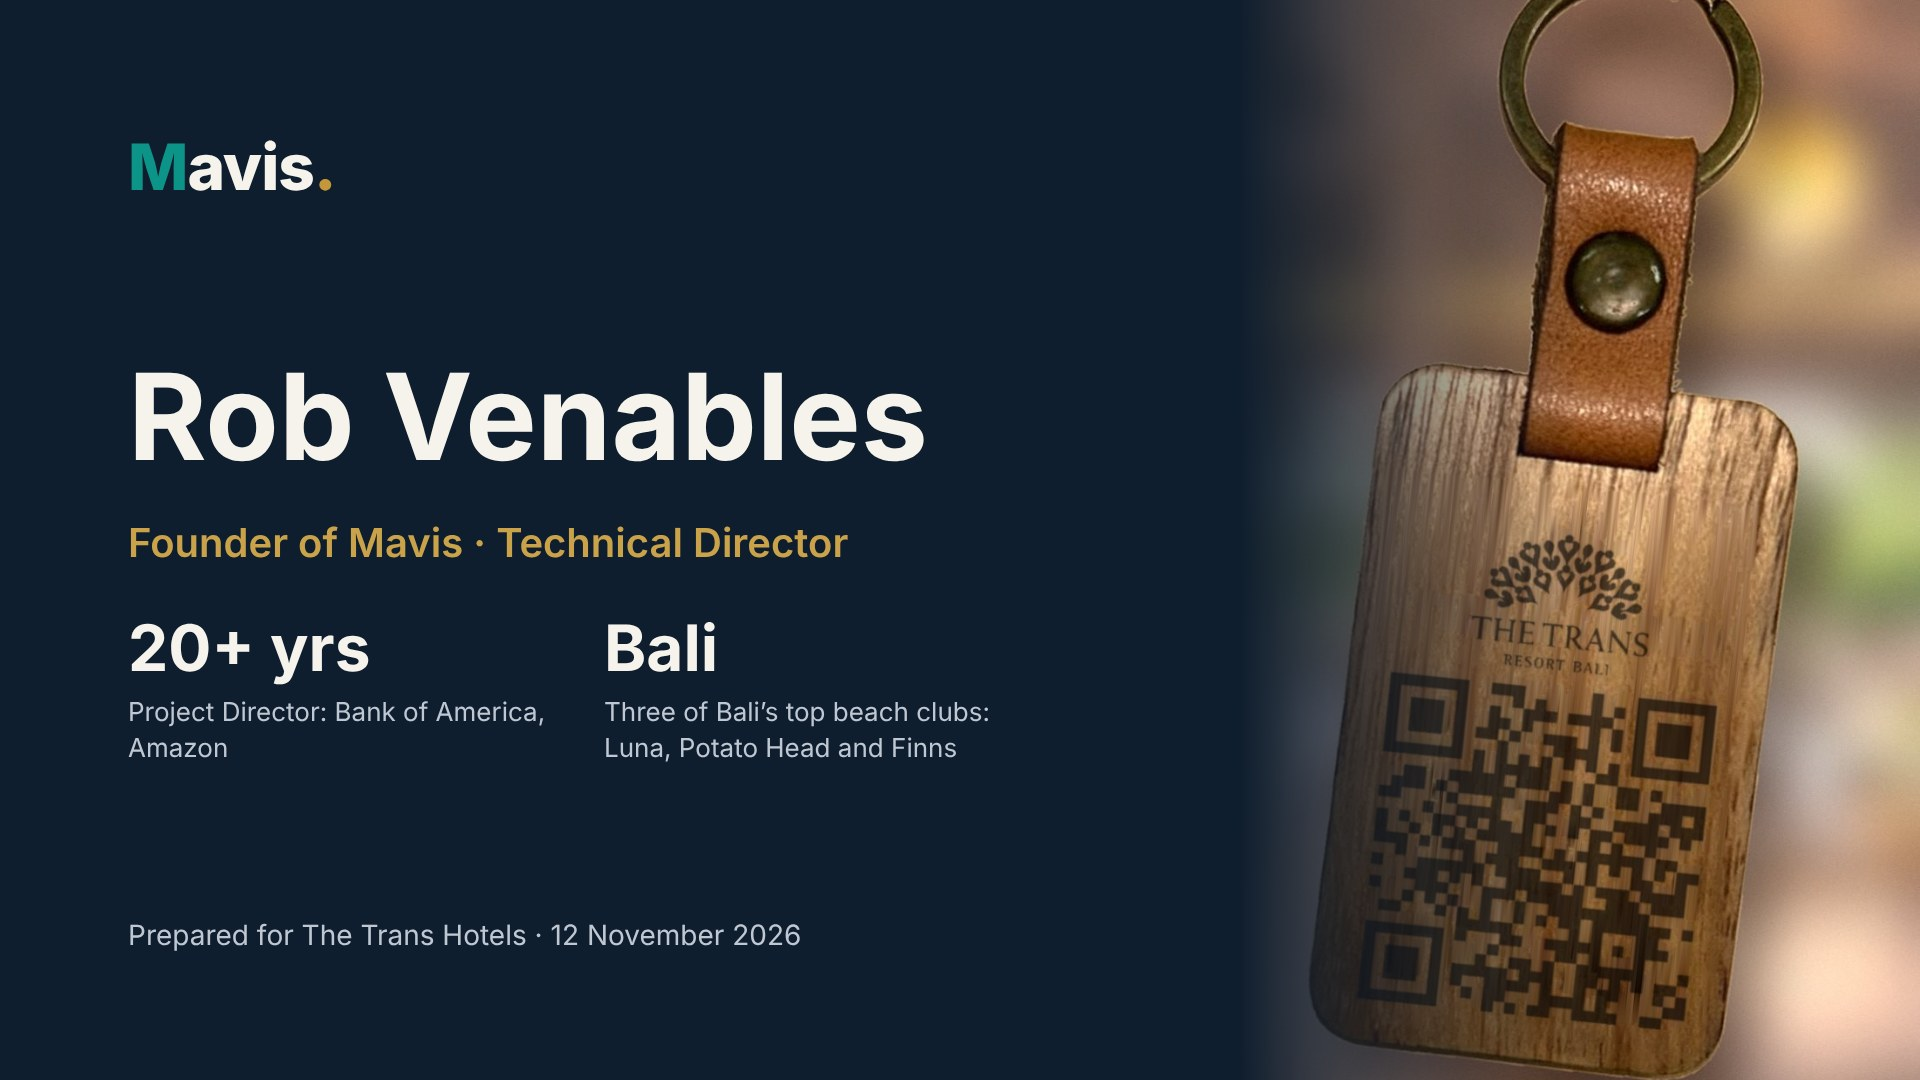
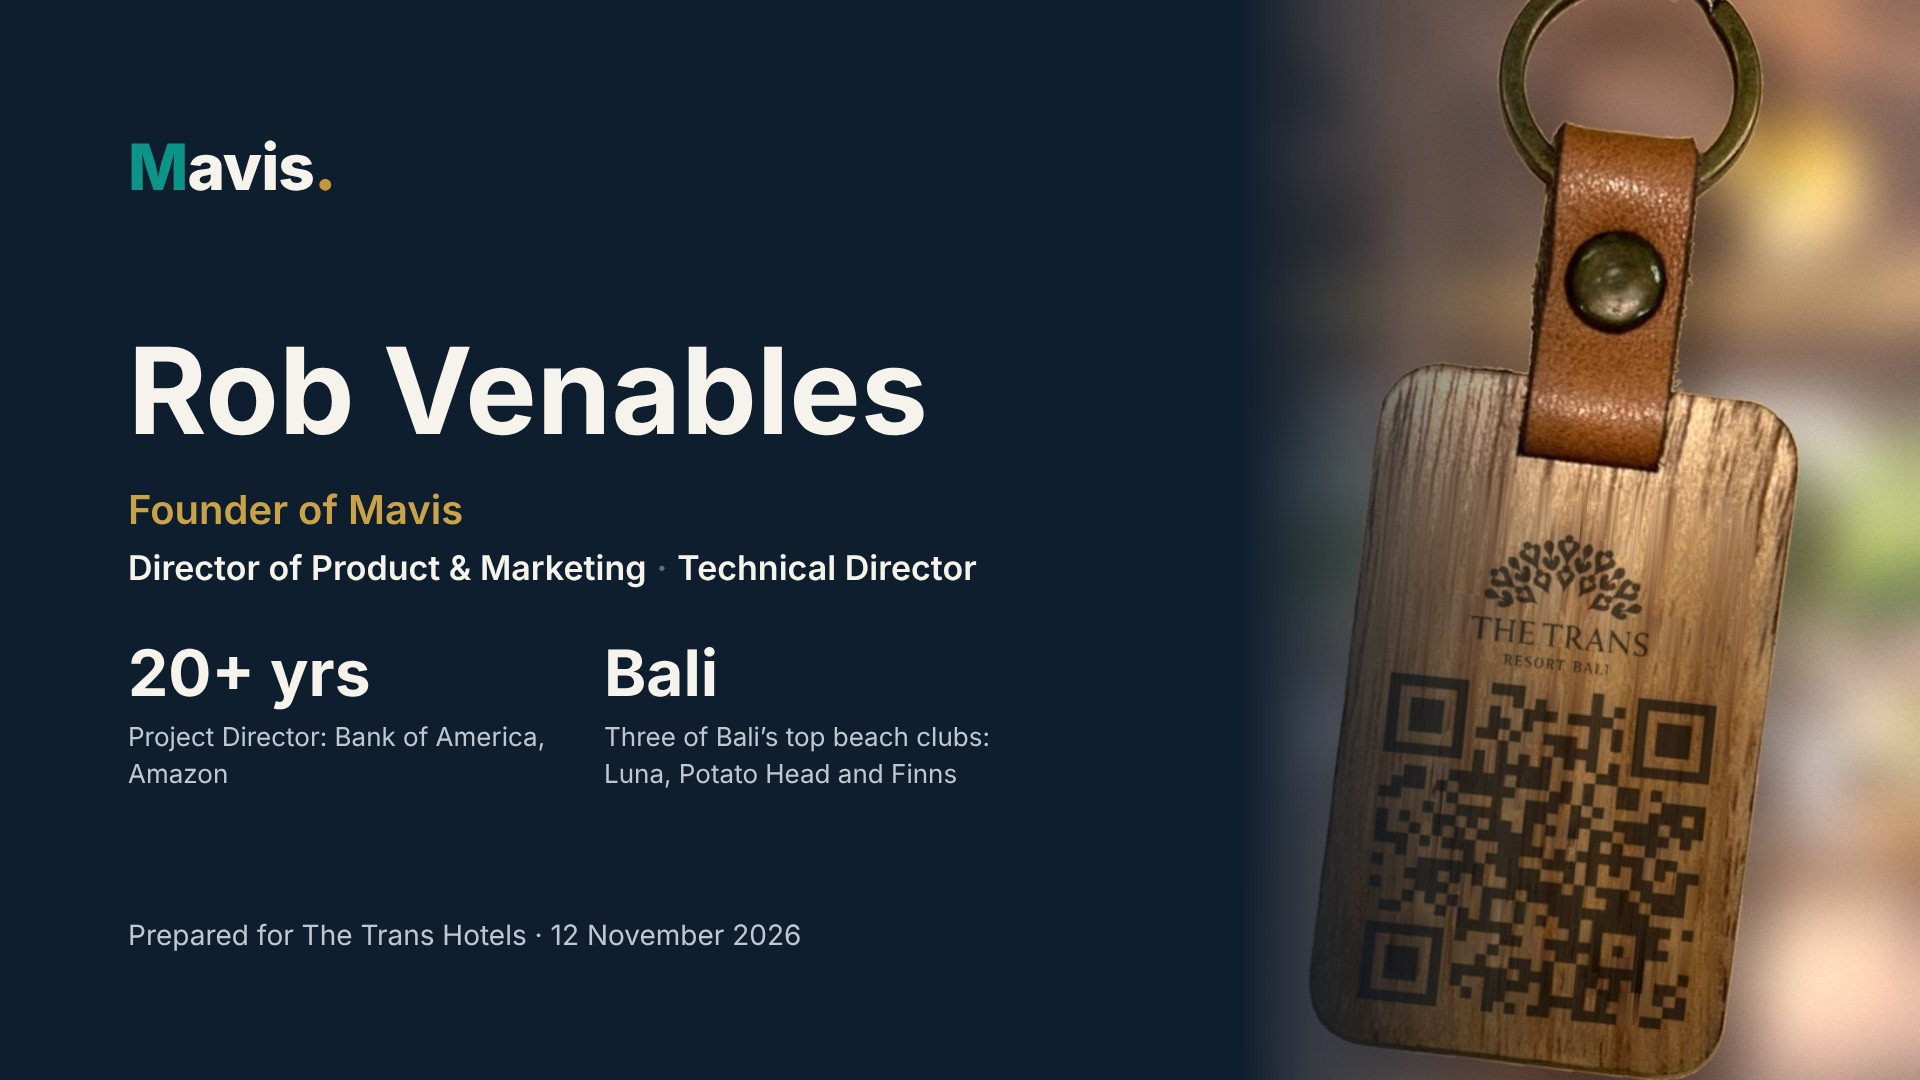
Trans deck slide 1: Director of Product & Marketing
Claude-Session: https://claude.ai/code/session_01PDrfwPm1ywymGCuyADBdVM

diff --git a/trans/index.html b/trans/index.html
@@ -43,7 +43,7 @@ body.tall #more{display:block;margin:4px 12px 28px;text-align:center;background:
 </head>
 <body>
 <div id="stage">
-  <div class="slide"><img src="s1.jpg" alt="Rob Venables, founder of Mavis"></div>
+  <div class="slide"><img src="s1.jpg?v=2" alt="Rob Venables, founder of Mavis"></div>
   <div class="slide"><img src="s2.jpg" alt="How it started: Mavis Team, Club, Padel and Bookings"></div>
   <div class="slide"><img src="s3.jpg" alt="Twelve reasons Mavis Club works"></div>
   <div class="slide"><img src="s4.jpg" alt="As simple as 1, 2, 3"></div>
